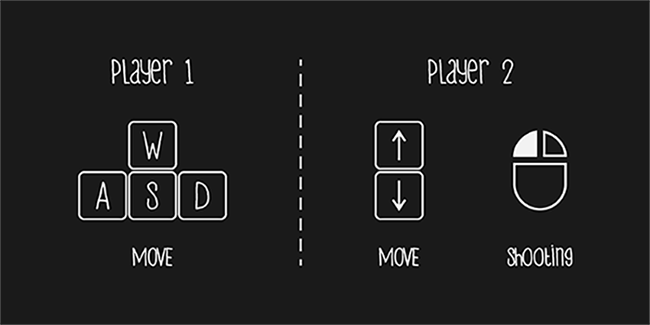
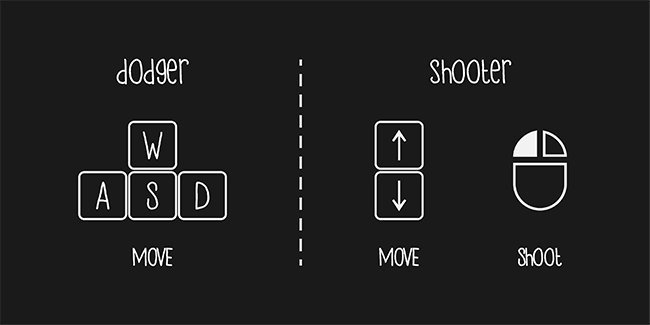
add character

diff --git a/MainGame/Main game loop.py b/MainGame/Main game loop.py
@@ -33,6 +33,8 @@ player_button2 = pygame.image.load("TSArt/play2.png")
 help_button = pygame.image.load("TSArt/help.png")
 help_button2 = pygame.image.load("TSArt/help1.png")
 help_menu = pygame.image.load("TSArt/help menu.png")
+left_menu = pygame.image.load("TSArt/left.png")
+right_menu = pygame.image.load("TSArt/right.png")
 background = pygame.image.load("TSArt/airadventurelevel1.png")
 click_sound = pygame.mixer.Sound("TSArt/click.wav")
 click_sound.set_volume(0.5)
@@ -151,24 +153,26 @@ def main ():
         screen.fill((204,204,204)) 
         screen.blit(background,(0,0))
         screen.blit(title,(260,70))
-        screen.blit(help_button,(555,490))
-        screen.blit(player_button,(555,430))
+        screen.blit(help_button,(555,460))
+        screen.blit(player_button,(555,400))
+        screen.blit(left_menu,(60,230))
+        screen.blit(right_menu,(930,230))
 
         
-        if (555 < end_x < 675) and (430 <= end_y <= 469):
-            screen.blit(player_button2,(555,430))
+        if (555 < end_x < 675) and (400 <= end_y <= 439):
+            screen.blit(player_button2,(555,400))
             if pygame.mouse.get_pressed()[0]:
                 intro = False
                 
                 
 
         
-        if (555 < end_x < 675) and (490 <= end_y <= 539):
-            screen.blit(help_button2,(555,490))
+        if (555 < end_x < 675) and (460 <= end_y <= 509):
+            screen.blit(help_button2,(555,460))
 
             if pygame.mouse.get_pressed()[0]:
 #                click_sound.paly()
-                screen.blit(help_menu,(295,220))
+                screen.blit(help_menu,(280,220))
                 pygame.time.delay(200)
 
             else:
